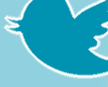
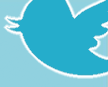
Added a print style and changed the third core colour to a lighter tone.

diff --git a/css/style.css b/css/style.css
@@ -127,7 +127,7 @@ a:hover {
   line-height: 1.4em; }
 
 .node-type-homepage .field-name-field-welcome {
-  margin: 0 30px 40px 240px;
+  margin: 0 30px 10px 240px;
   min-height: 160px;
   font-family: 'Museo300', Helvetica, arial, sans-serif;
   color: #fff;
@@ -164,11 +164,11 @@ a:hover {
 .node-type-homepage .group_services {
   background: url("../images/services.png") top right no-repeat #93d1de; }
 .node-type-homepage .group_contactus {
-  background: url("../images/contact-us.png") top right no-repeat #1693af; }
+  background: url("../images/contact-us.png") top right no-repeat #25adcb; }
 
 .node-type-about .field-name-field-welcome {
-  margin: 0 30px 40px 240px;
-  min-height: 90px;
+  margin: 0 30px 10px 240px;
+  min-height: 140px;
   font-family: 'Museo300', Helvetica, arial, sans-serif;
   color: #fff;
   font-size: 1.1em;
@@ -200,7 +200,7 @@ a:hover {
 .node-type-about #main-content .group_director2_details {
   background: #93d1de; }
 .node-type-about #main-content .group_director3_details {
-  background: #1693af; }
+  background: #25adcb; }
 .node-type-about #main-content .field-name-field-director1-name, .node-type-about #main-content .field-name-field-director2-name, .node-type-about #main-content .field-name-field-director3-name {
   font-family: 'Museo500', Helvetica, arial, sans-serif;
   color: #343534;
@@ -213,10 +213,23 @@ a:hover {
 .node-type-about #main-content a.linkedin:hover {
   text-decoration: underline;
   color: #b84f4f; }
+.node-type-about #main-content strong.highlight {
+  font-size: 2.3em;
+  font-weight: normal;
+  font-family: 'Museo500', Helvetica, arial, sans-serif;
+  padding: 0 0.1em; }
+.node-type-about #main-content p.emphasised {
+  margin-bottom: 1.2em;
+  font-style: italic;
+  font-size: 1.2em;
+  color: #343534; }
+  .node-type-about #main-content p.emphasised a {
+    color: #343534;
+    text-decoration: none; }
 
 .node-type-services .field-name-field-welcome {
-  margin: 0 30px 40px 240px;
-  min-height: 120px;
+  margin: 0 30px 10px 240px;
+  min-height: 140px;
   font-family: 'Museo300', Helvetica, arial, sans-serif;
   color: #fff;
   font-size: 1.1em;
@@ -250,7 +263,7 @@ a:hover {
 .node-type-services .group_service2 {
   background: #93d1de; }
 .node-type-services .group_service3 {
-  background: #1693af; }
+  background: #25adcb; }
 
 .node-type-standard #content-header h1 {
   margin: 0 30px 0 240px; }
@@ -292,7 +305,7 @@ a:hover {
   .page-locationmap #main-content .twitter {
     background: url("../images/twitter.png") top right no-repeat #93d1de; }
   .page-locationmap #main-content .addresses {
-    background: url("../images/postal.png") top right no-repeat #1693af; }
+    background: url("../images/postal.png") top right no-repeat #25adcb; }
     .page-locationmap #main-content .addresses .physical {
       float: left;
       width: 280px; }

diff --git a/css/print.css b/css/print.css
@@ -1,0 +1,82 @@
+html, body {
+  background: #fff;
+  font-size: 10pt; }
+
+#body-container {
+  border: none;
+  width: 95%;
+  background: none;
+  margin: 0 0 0 20px; }
+
+#page {
+  background: none; }
+
+#header #logo {
+  display: block;
+  margin: 0 0 2em 0;
+  text-align: center; }
+#header #name-and-slogan, #header #navigation {
+  display: none; }
+
+#footer {
+  padding-bottom: 5px; }
+  #footer #block-menu-menu-footer-menu {
+    display: none; }
+
+#page {
+  padding: 0; }
+
+.node-type-homepage .field-name-field-welcome,
+.node-type-about .field-name-field-welcome,
+.node-type-services .field-name-field-welcome {
+  color: #000;
+  margin: 0 0 10px 0px;
+  min-height: 0;
+  width: 95%; }
+
+.node-type-homepage .homepage-panel {
+  width: 32%;
+  padding: 0;
+  margin: 0;
+  min-height: 0;
+  background: none!important; }
+
+.node-type-about #content-header h1 {
+  margin-left: 0; }
+.node-type-about #main-content .director-details {
+  width: auto; }
+.node-type-about #main-content .group_director1_details, .node-type-about #main-content .group_director2_details, .node-type-about #main-content .group_director3_details {
+  background: #fff;
+  margin: -180px 0 0 170px; }
+.node-type-about #main-content .field-type-image {
+  padding: 25px 15px 15px 0; }
+
+.node-type-services #content-header h1 {
+  margin-left: 0; }
+.node-type-services .service {
+  width: 32%;
+  margin: 0;
+  min-height: 0;
+  background: none!important; }
+  .node-type-services .service .field-items {
+    margin: 0; }
+  .node-type-services .service ul {
+    margin-left: 1.2em; }
+    .node-type-services .service ul li {
+      color: #333; }
+
+.page-locationmap #content-header h1 {
+  margin-left: 0; }
+.page-locationmap #main-content {
+  margin-left: 0; }
+  .page-locationmap #main-content .email, .page-locationmap #main-content .twitter, .page-locationmap #main-content .addresses {
+    background: none;
+    min-height: 0;
+    padding: 0; }
+    .page-locationmap #main-content .email h3, .page-locationmap #main-content .twitter h3, .page-locationmap #main-content .addresses h3 {
+      margin-top: 0; }
+  .page-locationmap #main-content #locationmap_map {
+    height: 350px!important; }
+
+.tabs, #toolbar, .linkedin, .moreinfo {
+  display: none; }

diff --git a/css/print.scss b/css/print.scss
@@ -1,0 +1,118 @@
+html, body {
+	background: #fff;
+	font-size: 10pt;
+}
+
+#body-container {
+	border: none;
+	width: 95%;
+	background: none;
+	margin: 0 0 0 20px;
+}
+
+#page {
+	background: none;
+}
+
+#header {
+	#logo { 
+		display: block;
+		margin: 0 0 2em 0;
+		text-align: center;
+	}
+	#name-and-slogan, #navigation {
+		display: none;
+	}
+}
+
+#footer {
+	padding-bottom: 5px;
+	#block-menu-menu-footer-menu {
+		display: none;
+	}
+}
+
+#page {
+	padding: 0;
+}
+
+.node-type-homepage .field-name-field-welcome,
+.node-type-about .field-name-field-welcome,
+.node-type-services .field-name-field-welcome {
+	color: #000;
+	margin: 0 0 10px 0px;
+	min-height: 0;
+	width: 95%;
+}
+
+.node-type-homepage {
+	.homepage-panel {
+		width: 32%;
+		padding: 0;
+		margin: 0;
+		min-height: 0;
+		background: none!important;
+	}
+}
+.node-type-about {
+	#content-header h1 {
+		margin-left: 0;
+	}
+	#main-content {
+		.director-details {
+			width: auto;
+		}
+		.group_director1_details, .group_director2_details, .group_director3_details {
+			background: #fff;
+			margin: -180px 0 0 170px;
+		}
+		.field-type-image {
+    		padding: 25px 15px 15px 0;
+    	}
+	}
+}
+
+.node-type-services {
+	#content-header h1 {
+		margin-left: 0;
+	}
+	.service {
+		width: 32%;
+		margin: 0;
+		min-height: 0;
+		background: none!important;
+		.field-items {
+			margin: 0;
+		}
+		ul {
+			margin-left: 1.2em;
+			li {
+				color: #333;
+			}
+		}
+	}
+}
+
+.page-locationmap {
+	#content-header h1 {
+		margin-left: 0;
+	}
+	#main-content {
+		margin-left: 0;
+		.email, .twitter, .addresses {
+			background: none;
+			min-height: 0;
+			padding: 0;
+			h3 {
+				margin-top: 0;
+			}
+		}
+		#locationmap_map {
+			height: 350px!important;
+		}
+	}
+}
+	
+.tabs, #toolbar, .linkedin, .moreinfo {
+	display: none;
+}

diff --git a/css/style.scss b/css/style.scss
@@ -5,7 +5,7 @@ $lightgrey: #838583;
 $darkgrey: #343534;
 $logocolour1: #5abfcf;
 $logocolour2: #93d1de;
-$logocolour3: #1693af;
+$logocolour3: #25adcb;
 $hovercolour: #b84f4f;
 
 @mixin rounded-corners {
@@ -17,7 +17,7 @@ $hovercolour: #b84f4f;
 
 @mixin welcome-text($min-height) {
     .field-name-field-welcome {
-		margin: 0 $rightmargin 40px $leftmargin;
+		margin: 0 $rightmargin 10px $leftmargin;
 		min-height: $min-height;
 		font-family: 'Museo300', Helvetica, arial, sans-serif;
 		color: #fff;
@@ -234,7 +234,7 @@ a:hover {
 }
 
 .node-type-about {
-    @include welcome-text(90px);
+    @include welcome-text(140px);
     
     #content-header h1 { 
         margin: 0 $rightmargin 0 $leftmargin;
@@ -286,12 +286,28 @@ a:hover {
 		a.linkedin:hover {
 			text-decoration: underline;
 			color: $hovercolour;
-		}		
+		}
+		strong.highlight {
+			font-size: 2.3em;
+			font-weight: normal;
+			font-family: 'Museo500', Helvetica, arial, sans-serif;
+			padding: 0 0.1em;
+		}
+		p.emphasised {
+			margin-bottom: 1.2em;
+			font-style: italic;
+			font-size: 1.2em;
+			color: $darkgrey;
+			a {
+				color: $darkgrey;
+				text-decoration: none;
+			}
+		}
     }
 }
 
 .node-type-services {
-	@include welcome-text(120px);
+	@include welcome-text(140px);
 	
 	#content-header h1 {
         margin: 0 $rightmargin 0 $leftmargin;
